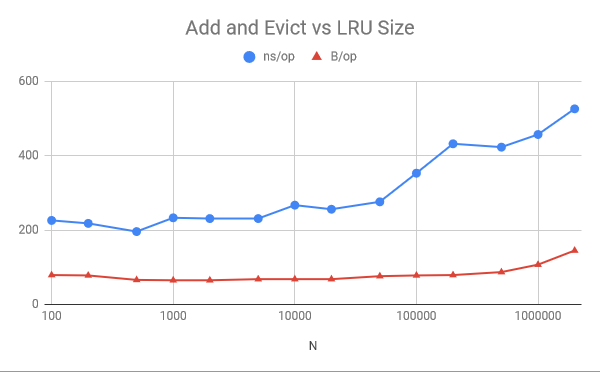
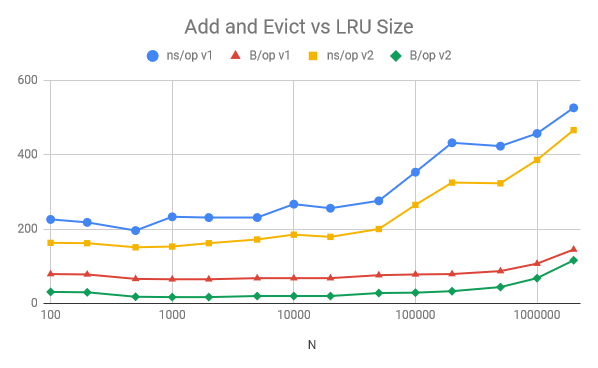
Reuse the list.Element during Add().
The existing code was popping off the last key, deleting it, and
allocating a new one. But we can just reuse the list.Element and change
the key that it points to.

This both speeds up the core Add loop, but also drops the
bytes-allocated in half. We still seem to have the same spike once we
grow above 1M entries, and a significant growth around 100k, but the
numbers all around are lower.

diff --git a/lru.go b/lru.go
@@ -44,10 +44,18 @@ func (lru *LRU) Add(key, value interface{}) {
 		entry.value = value
 	} else {
 		// We are adding an element, make sure there is room
+		var elem *list.Element
 		if lru.keys.Len() >= lru.maxSize {
-			lru.removeLast()
+			elem = lru.keys.Back()
+			if elem != nil {
+				delete(lru.values, elem.Value)
+				elem.Value = key
+				lru.keys.MoveToFront(elem)
+			}
 		}
-		elem := lru.keys.PushFront(key)
+		if elem == nil {
+			elem = lru.keys.PushFront(key)
+		}
 		entry = cacheEntry{
 			listElem: elem,
 			value:    value,
@@ -76,12 +84,3 @@ func (lru *LRU) Peek(key interface{}) (interface{}, bool) {
 	return nil, false
 }
 
-// removeLast removes the oldest entry from the queue
-func (lru *LRU) removeLast() {
-	last := lru.keys.Back()
-	if last != nil {
-		lru.keys.Remove(last)
-	}
-	// remember the "Value" in the list is actually a key
-	delete(lru.values, last.Value)
-}

diff --git a/benchmark_test.go b/benchmark_test.go
@@ -72,6 +72,7 @@ func (*BenchmarkSuite) BenchmarkAddAndEvict2000000(c *gc.C) {
 }
 
 func benchAddAndEvict(c *gc.C, size int) {
+
 	cache := lru.New(size)
 	for i := 0; i < c.N; i++ {
 		cache.Add(i, i)
